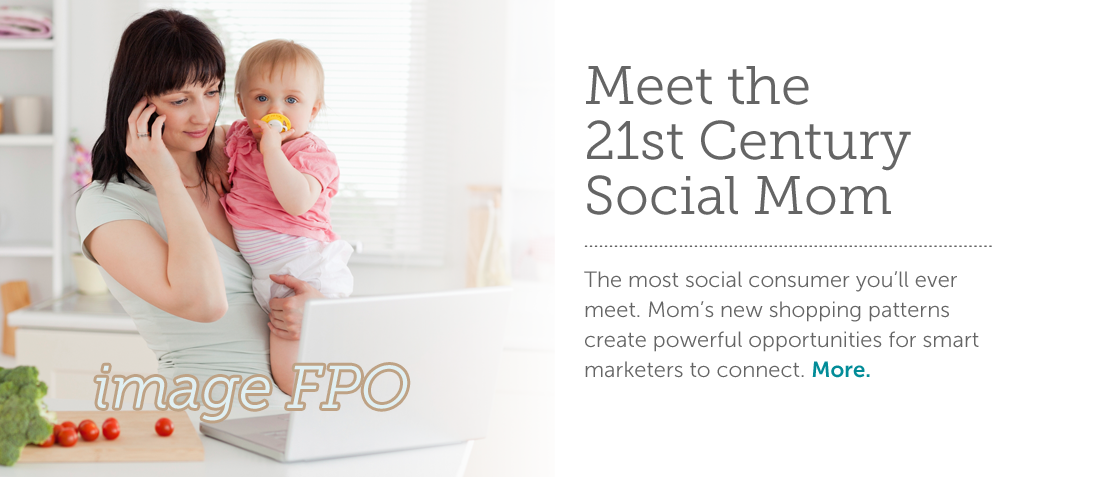
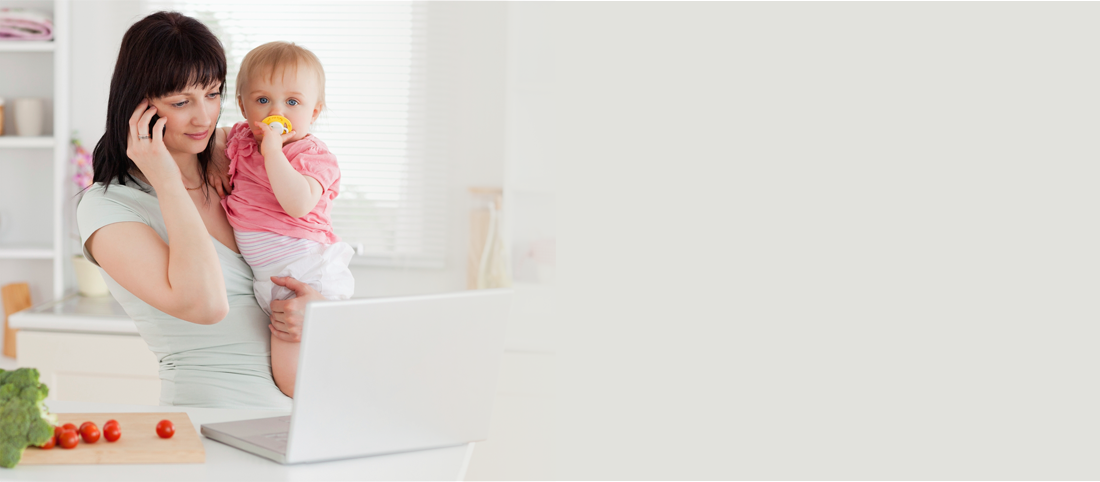
Converted home hero #2 to HTML

diff --git a/index.html b/index.html
@@ -74,6 +74,17 @@
     <div class="large-12 hide-for-small hero">
 
         <ul id="featured" data-orbit>
+            <li id="home-hero-2">
+                <div class="hero-copy">
+                    <h1>Meet the 21st Century Social Mom</h1>
+
+                    <div class="spacer-line"></div>
+                    <h4>The most social consumer you’ll ever meet. Mom’s new shopping patterns
+                        create powerful opportunities for smart marketers to connect. <a href="#">More.</a> </h4>
+                </div>
+            </li>
+
+
             <li id="home-hero-1">
                 <div class="hero-copy">
                     <h1>BabyCenter is Mom's #1 Resource</h1>
@@ -88,7 +99,6 @@
             </li>
 
 
-        <li><img src="images/hero-home-2.png" alt="slide image"></li>
         <li><img src="images/hero-home-3.png" alt="slide image"></li>
     </ul>
     <div id="tab-box">

diff --git a/css/home.css b/css/home.css
@@ -18,17 +18,16 @@
     width:500px;
 }
 
-
-#home-hero-1 h1{
+h1{
     margin-bottom:10px;
     line-height:1.2em;
 }
 
-#home-hero-1 .spacer-line{
+.hero-copy .spacer-line{
     width:400px;
 }
 
-#home-hero-1 h3{
+.hero-copy h3{
     margin-top:16px;
 }
 
@@ -37,6 +36,23 @@
     list-style: circle;
     font-size:11pt;
 }
+
+#home-hero-2{
+    background: url("../images/hero-home-2.png");
+}
+
+#home-hero-2 .hero-copy{
+    float:right;
+    width:510px;
+    padding-top:45px;
+}
+
+#home-hero-2 h4{
+    margin-top:16px;
+    width:450px;
+}
+
+
 
 .home-box {
     position: relative;

diff --git a/css/bc-solutions.css b/css/bc-solutions.css
@@ -392,7 +392,8 @@ h1, h2, h3 {
 
 
 h4 {
-    font-family: "MuseoSlabHeavy",Georgia,Arial,serif;
+    font-family: "MuseoSlabLight",Georgia,Arial,serif;
+    color: #656565;
     font-weight: normal;
 }
 
